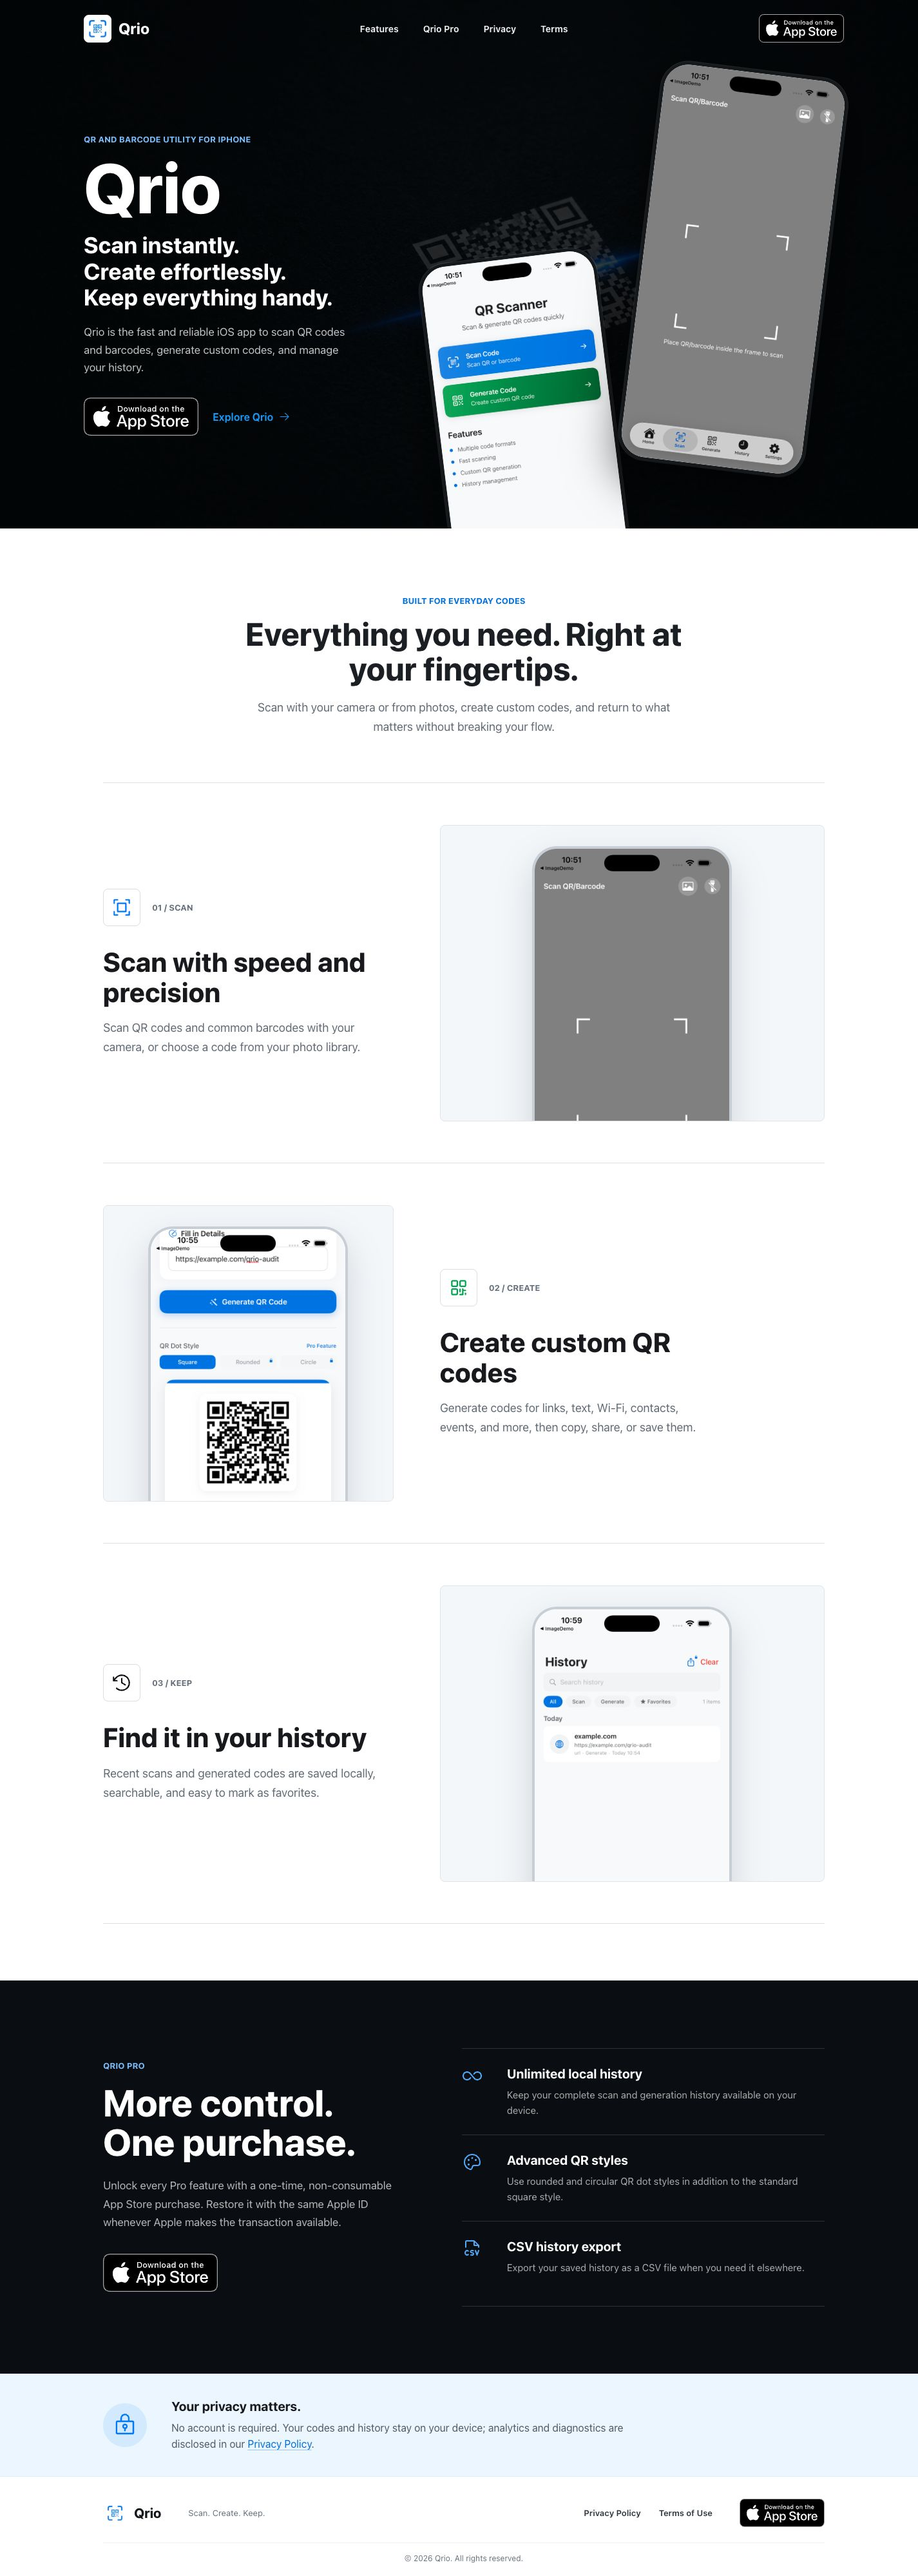
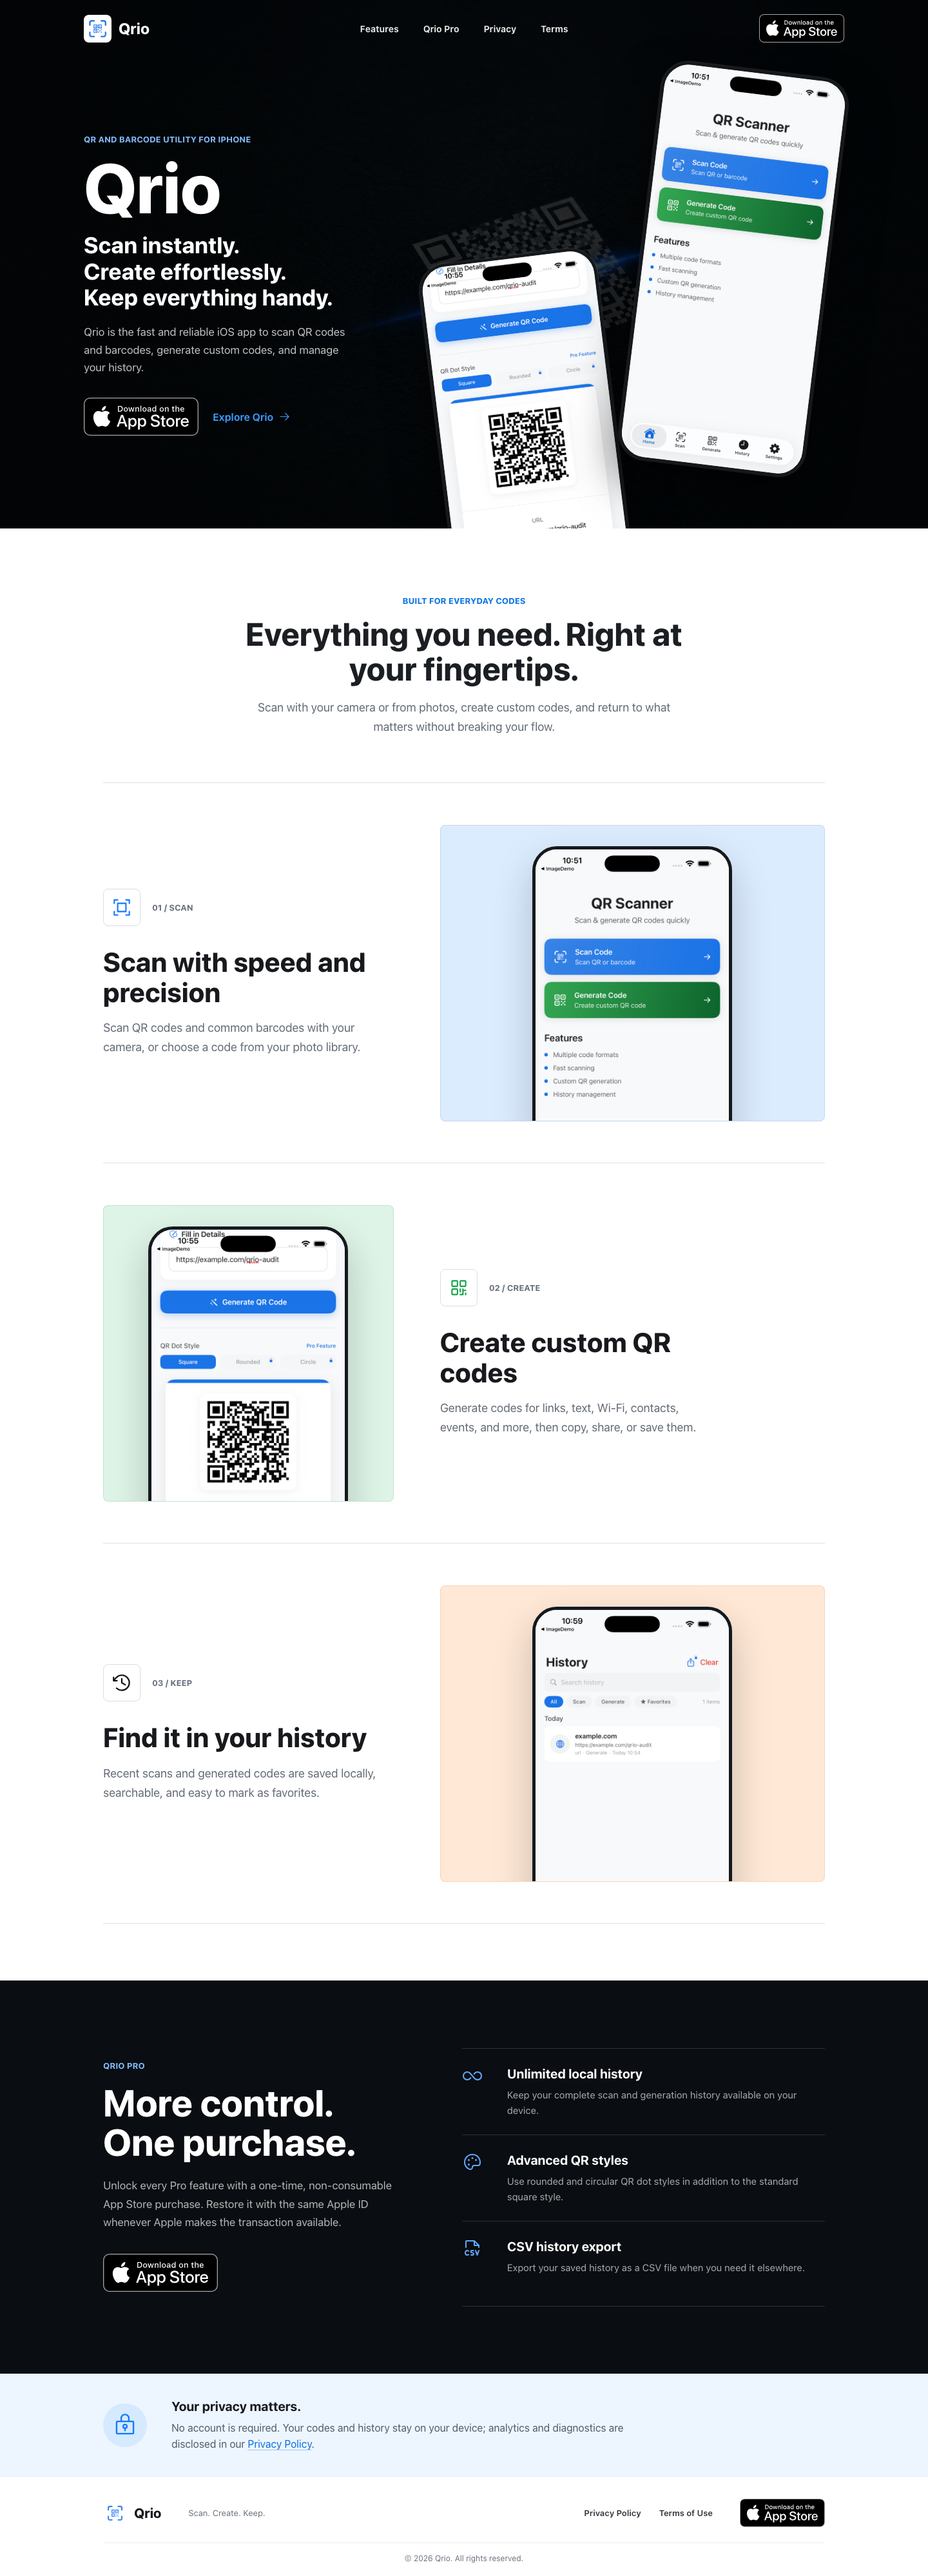
fix(website): replace gray product imagery

diff --git a/src/styles.css b/src/styles.css
@@ -317,14 +317,14 @@ a {
   box-shadow: 0 34px 68px rgba(0, 0, 0, 0.58), 0 0 0 1px rgba(255, 255, 255, 0.14);
 }
 
-.hero-device-scan {
+.hero-device-primary {
   z-index: 4;
   top: 18px;
   right: 4%;
   transform: rotate(7deg);
 }
 
-.hero-device-home {
+.hero-device-secondary {
   z-index: 2;
   width: 278px;
   left: 5%;
@@ -453,18 +453,29 @@ a {
   justify-content: center;
   width: 100%;
   overflow: hidden;
-  border: 1px solid #e0e5ea;
+  border: 1px solid rgba(22, 63, 103, 0.12);
   border-radius: 8px;
-  background: #f4f7fa;
+  background: #dcecff;
+}
+
+.feature-preview.is-generate {
+  border-color: rgba(20, 112, 61, 0.13);
+  background: #def4e6;
+}
+
+.feature-preview.is-history {
+  border-color: rgba(154, 80, 25, 0.12);
+  background: #ffe8d5;
 }
 
 .feature-preview img {
   width: min(310px, 76%);
   height: auto;
   margin-top: 32px;
-  border: 4px solid #c8ced5;
+  border: 5px solid #15191e;
   border-radius: 38px 38px 0 0;
-  box-shadow: 0 22px 52px rgba(14, 22, 31, 0.16);
+  background: #fff;
+  box-shadow: 0 26px 58px rgba(14, 22, 31, 0.22);
 }
 
 .pro-section {
@@ -915,7 +926,7 @@ a {
     border-radius: 36px;
   }
 
-  .hero-device-home {
+  .hero-device-secondary {
     width: 234px;
     left: 0;
   }
@@ -1051,13 +1062,13 @@ a {
     border-radius: 28px;
   }
 
-  .hero-device-scan {
+  .hero-device-primary {
     top: 50%;
     right: -18px;
     transform: rotate(7deg);
   }
 
-  .hero-device-home {
+  .hero-device-secondary {
     width: 164px;
     left: -18px;
     top: 67%;
@@ -1295,13 +1306,13 @@ a {
     line-height: 1.45;
   }
 
-  .hero-device-scan {
+  .hero-device-primary {
     width: 172px;
     top: 53%;
     right: -18px;
   }
 
-  .hero-device-home {
+  .hero-device-secondary {
     width: 150px;
     top: 69%;
   }
@@ -1355,11 +1366,11 @@ a {
     height: 16px;
   }
 
-  .hero-device-scan {
+  .hero-device-primary {
     top: 75%;
   }
 
-  .hero-device-home {
+  .hero-device-secondary {
     top: 78%;
   }
 }

diff --git a/src/App.jsx b/src/App.jsx
@@ -520,8 +520,8 @@ function Hero() {
         </div>
 
         <div className="hero-showcase" aria-label="Qrio app screenshots">
-          <img className="hero-device hero-device-scan" src="/assets/qrio-scan.png" alt="Qrio camera scanner" />
-          <img className="hero-device hero-device-home" src="/assets/qrio-home.png" alt="Qrio home screen" />
+          <img className="hero-device hero-device-primary" src="/assets/qrio-home.png" alt="Qrio home screen" />
+          <img className="hero-device hero-device-secondary" src="/assets/qrio-generate.png" alt="Qrio code generator" />
         </div>
       </div>
     </section>
@@ -533,8 +533,8 @@ const features = [
     title: "Scan with speed and precision",
     copy: "Scan QR codes and common barcodes with your camera, or choose a code from your photo library.",
     icon: Scan,
-    image: "/assets/qrio-scan.png",
-    alt: "Qrio camera scan interface",
+    image: "/assets/qrio-home.png",
+    alt: "Qrio home screen with the Scan Code action",
     accent: "blue",
     position: "scan",
     label: "Scan",

diff --git a/design-qa.md b/design-qa.md
@@ -6,11 +6,13 @@
 - Scope: implement the P0 and P1 findings from the homepage audit without adding unverified product claims.
 - Final desktop capture: `qa/screenshots/home-desktop-redesign.png` (1440 px viewport).
 - Final mobile capture: `qa/screenshots/home-mobile-redesign.png` (390 px viewport).
-- Rendering engine: Google Chrome 152, the user's configured default browser.
+- Rendering engine: Google Chrome 154, the user's configured default browser.
 
 ## Verified Design Changes
 
 - Rebuilt the hero around one value proposition, two calls to action, and two real product screens; the earlier third overlapping phone was removed.
+- Removed the empty gray camera state from the hero and feature story. The homepage now uses content-rich Home, Generate, and History states that show the product's actual interface and functional color.
+- Replaced the repeated neutral-gray screenshot wells with feature-specific blue, green, and warm surfaces plus a high-contrast device frame, so screenshots read as deliberate product imagery rather than loading placeholders.
 - Expanded the feature area to a 1120 px content width with three alternating 590 px rows and readable 460 px product previews.
 - Added a dedicated Qrio Pro section. Every benefit and purchase statement is traceable to the app source and `docs/content-evidence.md`.
 - Reworked the privacy band and footer so supporting text remains readable instead of being compressed to fit the old reference height.

diff --git a/AGENTS.md b/AGENTS.md
@@ -14,3 +14,4 @@ Build app UI in `src/`. Keep `.openai/hosting.json`, `worker/index.js`, `scripts
 - Keep the Qrio visual language restrained and product-led: dark photographic hero, white reading surfaces, blue and green functional accents, and real in-app screenshots.
 - Keep homepage typography on one coherent scale. Secondary product and legal text must remain comfortably readable; do not restore the previous 12px privacy copy or 9px footer copy.
 - Explain Qrio Pro on the homepage using only benefits verified in the iOS source. Do not invent pricing, discounts, subscriptions, or unsupported capabilities.
+- Do not use the empty gray camera state as a primary marketing image or place every product screenshot on the same neutral gray stage. Prefer verified, content-rich app states and feature-specific blue, green, or warm supporting surfaces.
